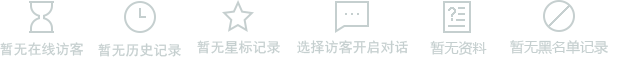
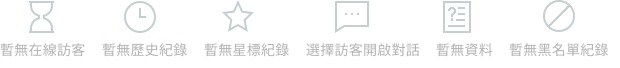
update datatable 中文

Changed region(s): [[0.0, 0.5882, 0.9806, 0.8235]]

diff --git a/application/service/view/history/index.html b/application/service/view/history/index.html
@@ -150,10 +150,10 @@
             <div style="width: 100%;padding: 16px">
                 <div style="font-size: 14px;border-left: 5px solid #5fb878;height: 40px;line-height: 40px;background: #f2f2f2;padding-left: 10px;">訪客訊息</div>
                 <div style="margin-top: 12px;">
-                    来源：<span class="record"></span>
+                    來源：<span class="record"></span>
                 </div>
                 <div style="margin-top: 14px;">
-                    地区：<span class="ipdizhi" style="font-size: 10px;"></span> 【<span class="iparea" style="font-size: 10px;"></span>】
+                    地區：<span class="ipdizhi" style="font-size: 10px;"></span>
                 </div>
                 <div style="margin-top: 14px;">
                     語言：<span class="lang-name"></span><span class="lang" style="display: none"></span>
@@ -168,7 +168,7 @@
                     登入次數：<span class="login_times" style="font-size: 10px;"></span>
                 </div>
                 <div style="margin-top: 14px;">
-                    登入设备：<span class="login_device" style="font-size: 10px;"></span>
+                    登入設備：<span class="login_device" style="font-size: 10px;"></span>
                 </div>
             </div>
         </div>
@@ -192,10 +192,10 @@
     <section style="position: absolute;left:80%;height:100%;width: 20%;display: none;padding: 20px 10px;" id="visiter-info">
         <div style="font-size: 14px;border-left: 5px solid #5fb878;height: 40px;line-height: 40px;background: #f2f2f2;padding-left: 10px;">訪客訊息</div>
         <div style="margin-top: 12px;">
-            来源：<span class="record">http://woline.test/index/index/welcome</span>
+            來源：<span class="record">http://woline.test/index/index/welcome</span>
         </div>
         <div style="margin-top: 14px;">
-            地区：<span class="ipdizhi" style="font-size: 10px;"></span> 【<span class="iparea" style="font-size: 10px;"></span>】
+            地區：<span class="ipdizhi" style="font-size: 10px;"></span> 
         </div>
         <div style="margin-top: 14px;">
             語言：<span class="lang-name"></span><span class="lang" style="display: none"></span>
@@ -210,7 +210,7 @@
             登入次數：<span class="login_times" style="font-size: 10px;"></span>
         </div>
         <div style="margin-top: 14px;">
-            登入设备：<span class="login_device" style="font-size: 10px;"></span>
+            登入設備：<span class="login_device" style="font-size: 10px;"></span>
         </div>
     </section>
 </div>

diff --git a/application/service/view/visitors/index.html b/application/service/view/visitors/index.html
@@ -100,9 +100,12 @@
                     align: 'left',
                 }, {
                     field: 'ip',
-                    title: 'IP訊息',
+                    title: '操作IP',
                     unresize: true,
-                    align: 'left',
+                    align: 'center',
+                    templet: function (d) {
+                        return d.ip.split('【')[0]; // 只顯示 IP 地址部分
+                    }
                 }, {
                     field: 'lang',
                     title: '語言',
@@ -163,7 +166,19 @@
                     title: '刷新',
                     layEvent: 'refresh',
                     icon: 'layui-icon-refresh',
-                }, 'filter', 'print', 'exports'],
+                }, {
+                    title: '篩選',
+                    layEvent: 'LAYTABLE_COLS',
+                    icon: 'layui-icon-cols'
+                }, {
+                    title: '列印',  // 修改 "打印" 為 "列印"
+                    layEvent: 'LAYTABLE_PRINT',
+                    icon: 'layui-icon-print'
+                }, {
+                    title: '匯出',  // 修改 "导出" 為 "匯出"
+                    layEvent: 'LAYTABLE_EXPORT',
+                    icon: 'layui-icon-export'
+                }],
                 page: {
                     layout: ['count', 'prev', 'page', 'next', 'limit', 'skip'],
                     prev: '上一頁',

diff --git a/application/service/view/log/index.html b/application/service/view/log/index.html
@@ -99,7 +99,19 @@
                     title: '刷新',
                     layEvent: 'refresh',
                     icon: 'layui-icon-refresh',
-                }, 'filter', 'print', 'exports'],
+                }, {
+                    title: '篩選',
+                    layEvent: 'LAYTABLE_COLS',
+                    icon: 'layui-icon-cols'
+                }, {
+                    title: '列印',  // 修改 "打印" 為 "列印"
+                    layEvent: 'LAYTABLE_PRINT',
+                    icon: 'layui-icon-print'
+                }, {
+                    title: '匯出',  // 修改 "导出" 為 "匯出"
+                    layEvent: 'LAYTABLE_EXPORT',
+                    icon: 'layui-icon-export'
+                }],
                 page: {
                     layout: ['count', 'prev', 'page', 'next', 'limit', 'skip'],
                     prev: '上一頁',

diff --git a/application/backend/view/log/index.html b/application/backend/view/log/index.html
@@ -98,7 +98,19 @@
                         title: '刷新',
                         layEvent: 'refresh',
                         icon: 'layui-icon-refresh',
-                    }, 'filter', 'print', 'exports'],
+                    }, {
+        title: '篩選',
+        layEvent: 'LAYTABLE_COLS',
+        icon: 'layui-icon-cols'
+    }, {
+        title: '列印',  // 修改 "打印" 為 "列印"
+        layEvent: 'LAYTABLE_PRINT',
+        icon: 'layui-icon-print'
+    }, {
+        title: '匯出',  // 修改 "导出" 為 "匯出"
+        layEvent: 'LAYTABLE_EXPORT',
+        icon: 'layui-icon-export'
+    }],
                     page: {
                         layout: ['count', 'prev', 'page', 'next', 'limit', 'skip'],
                         prev: '上一頁',

diff --git a/application/backend/view/services/index.html b/application/backend/view/services/index.html
@@ -133,7 +133,19 @@
                     title: '刷新',
                     layEvent: 'refresh',
                     icon: 'layui-icon-refresh',
-                }, 'filter', 'print', 'exports'],
+                }, {
+        title: '篩選',
+        layEvent: 'LAYTABLE_COLS',
+        icon: 'layui-icon-cols'
+    }, {
+        title: '列印',  // 修改 "打印" 為 "列印"
+        layEvent: 'LAYTABLE_PRINT',
+        icon: 'layui-icon-print'
+    }, {
+        title: '匯出',  // 修改 "导出" 為 "匯出"
+        layEvent: 'LAYTABLE_EXPORT',
+        icon: 'layui-icon-export'
+    }],
                 page: {
                     layout: ['count', 'prev', 'page', 'next', 'limit', 'skip'],
                     prev: '上一頁',

diff --git a/application/service/view/banwords/index.html b/application/service/view/banwords/index.html
@@ -139,7 +139,19 @@
                     title: '刷新',
                     layEvent: 'refresh',
                     icon: 'layui-icon-refresh',
-                }, 'filter', 'print', 'exports'],
+                }, {
+        title: '篩選',
+        layEvent: 'LAYTABLE_COLS',
+        icon: 'layui-icon-cols'
+    }, {
+        title: '列印',  // 修改 "打印" 為 "列印"
+        layEvent: 'LAYTABLE_PRINT',
+        icon: 'layui-icon-print'
+    }, {
+        title: '匯出',  // 修改 "导出" 為 "匯出"
+        layEvent: 'LAYTABLE_EXPORT',
+        icon: 'layui-icon-export'
+    }],
                 page: {
                     layout: ['count', 'prev', 'page', 'next', 'limit', 'skip'],
                     prev: '上一頁',

diff --git a/application/service/view/groups/index.html b/application/service/view/groups/index.html
@@ -125,7 +125,19 @@
                     title: '刷新',
                     layEvent: 'refresh',
                     icon: 'layui-icon-refresh',
-                }, 'filter', 'print', 'exports'],
+                }, {
+        title: '篩選',
+        layEvent: 'LAYTABLE_COLS',
+        icon: 'layui-icon-cols'
+    }, {
+        title: '列印',  // 修改 "打印" 為 "列印"
+        layEvent: 'LAYTABLE_PRINT',
+        icon: 'layui-icon-print'
+    }, {
+        title: '匯出',  // 修改 "导出" 為 "匯出"
+        layEvent: 'LAYTABLE_EXPORT',
+        icon: 'layui-icon-export'
+    }],
                 page: {
                     layout: ['count', 'prev', 'page', 'next', 'limit', 'skip'],
                     prev: '上一頁',

diff --git a/application/service/view/questions/index.html b/application/service/view/questions/index.html
@@ -150,7 +150,19 @@
                     title: '刷新',
                     layEvent: 'refresh',
                     icon: 'layui-icon-refresh',
-                }, 'filter', 'print', 'exports'],
+                }, {
+        title: '篩選',
+        layEvent: 'LAYTABLE_COLS',
+        icon: 'layui-icon-cols'
+    }, {
+        title: '列印',  // 修改 "打印" 為 "列印"
+        layEvent: 'LAYTABLE_PRINT',
+        icon: 'layui-icon-print'
+    }, {
+        title: '匯出',  // 修改 "导出" 為 "匯出"
+        layEvent: 'LAYTABLE_EXPORT',
+        icon: 'layui-icon-export'
+    }],
                 page: {
                     layout: ['count', 'prev', 'page', 'next', 'limit', 'skip'],
                     prev: '上一頁',

diff --git a/application/service/view/robots/index.html b/application/service/view/robots/index.html
@@ -150,7 +150,19 @@
                     title: '刷新',
                     layEvent: 'refresh',
                     icon: 'layui-icon-refresh',
-                }, 'filter', 'print', 'exports'],
+                }, {
+        title: '篩選',
+        layEvent: 'LAYTABLE_COLS',
+        icon: 'layui-icon-cols'
+    }, {
+        title: '列印',  // 修改 "打印" 為 "列印"
+        layEvent: 'LAYTABLE_PRINT',
+        icon: 'layui-icon-print'
+    }, {
+        title: '匯出',  // 修改 "导出" 為 "匯出"
+        layEvent: 'LAYTABLE_EXPORT',
+        icon: 'layui-icon-export'
+    }],
                 page: {
                     layout: ['count', 'prev', 'page', 'next', 'limit', 'skip'],
                     prev: '上一頁',

diff --git a/application/service/view/services/index.html b/application/service/view/services/index.html
@@ -159,7 +159,19 @@
                     title: '刷新',
                     layEvent: 'refresh',
                     icon: 'layui-icon-refresh',
-                }, 'filter', 'print', 'exports'],
+                }, {
+        title: '篩選',
+        layEvent: 'LAYTABLE_COLS',
+        icon: 'layui-icon-cols'
+    }, {
+        title: '列印',  // 修改 "打印" 為 "列印"
+        layEvent: 'LAYTABLE_PRINT',
+        icon: 'layui-icon-print'
+    }, {
+        title: '匯出',  // 修改 "导出" 為 "匯出"
+        layEvent: 'LAYTABLE_EXPORT',
+        icon: 'layui-icon-export'
+    }],
                 page: {
                     layout: ['count', 'prev', 'page', 'next', 'limit', 'skip'],
                     prev: '上一頁',

diff --git a/application/service/view/setting/sentence.html b/application/service/view/setting/sentence.html
@@ -133,7 +133,19 @@
                     title: '刷新',
                     layEvent: 'refresh',
                     icon: 'layui-icon-refresh',
-                }, 'filter', 'print', 'exports'],
+                }, {
+        title: '篩選',
+        layEvent: 'LAYTABLE_COLS',
+        icon: 'layui-icon-cols'
+    }, {
+        title: '列印',  // 修改 "打印" 為 "列印"
+        layEvent: 'LAYTABLE_PRINT',
+        icon: 'layui-icon-print'
+    }, {
+        title: '匯出',  // 修改 "导出" 為 "匯出"
+        layEvent: 'LAYTABLE_EXPORT',
+        icon: 'layui-icon-export'
+    }],
                 page: {
                     layout: ['count', 'prev', 'page', 'next', 'limit', 'skip'],
                     prev: '上一頁',

diff --git a/application/service/view/vgroups/index.html b/application/service/view/vgroups/index.html
@@ -120,7 +120,19 @@
                     title: '刷新',
                     layEvent: 'refresh',
                     icon: 'layui-icon-refresh',
-                }, 'filter', 'print', 'exports'],
+                }, {
+        title: '篩選',
+        layEvent: 'LAYTABLE_COLS',
+        icon: 'layui-icon-cols'
+    }, {
+        title: '列印',  // 修改 "打印" 為 "列印"
+        layEvent: 'LAYTABLE_PRINT',
+        icon: 'layui-icon-print'
+    }, {
+        title: '匯出',  // 修改 "导出" 為 "匯出"
+        layEvent: 'LAYTABLE_EXPORT',
+        icon: 'layui-icon-export'
+    }],
                 page: {
                     layout: ['count', 'prev', 'page', 'next', 'limit', 'skip'],
                     prev: '上一頁',
